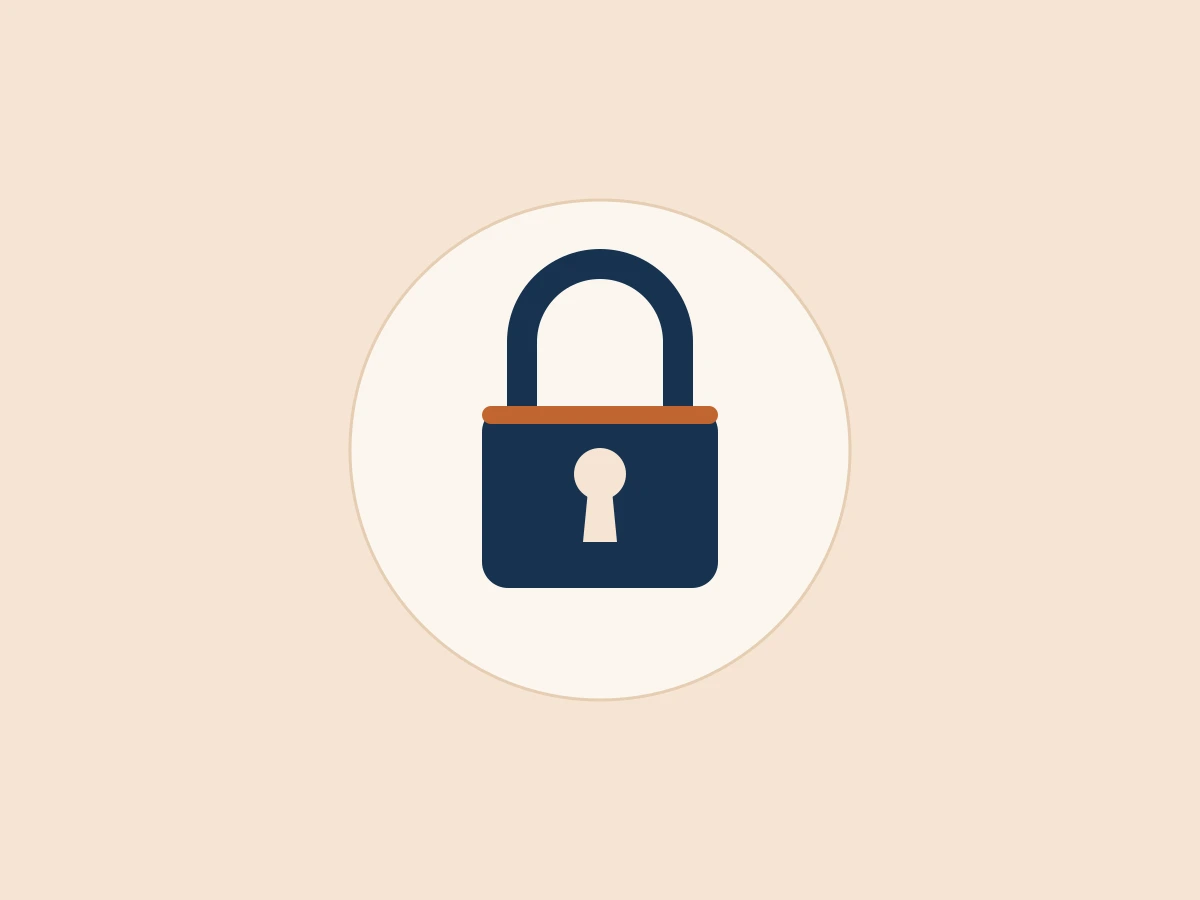
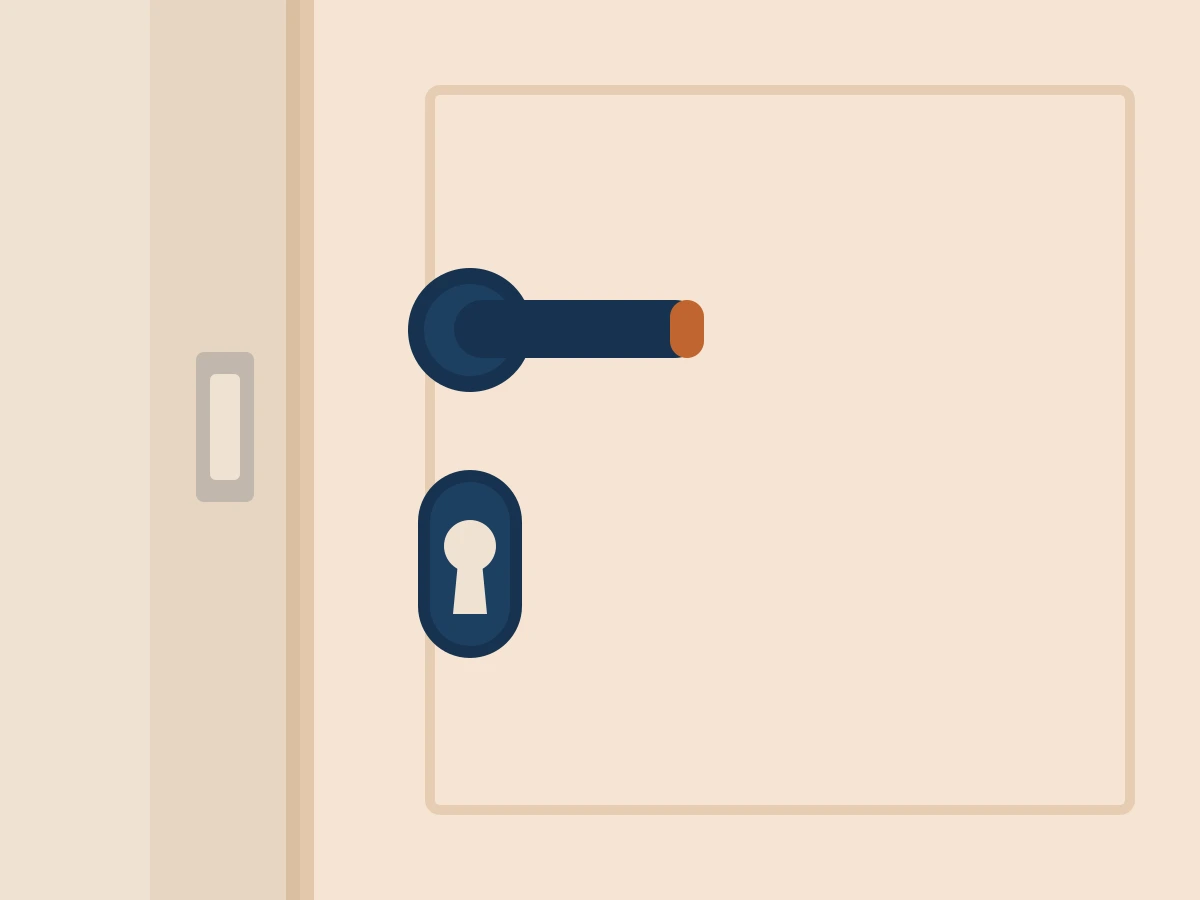
Rehace la página de Servicios y dibuja una cerradura de puerta
Servicios era diez tarjetas idénticas en rejilla, sin jerarquía y con
las fotos a tamaño sello. Es la página a la que más gente llega desde
Google, normalmente buscando un trabajo concreto.

- Índice de los diez servicios bajo la introducción, con enlaces a cada
  ficha. Quien busca "mosquiteras" ya no tiene que recorrerse la página
  entera. En móvil es una fila que se desliza: apilados ocupaban media
  pantalla antes del primer servicio.
- Las fichas pasan al mismo formato editorial de la portada: numeradas,
  con la foto grande y alternando lado. El trabajo se ve de verdad.
- Un solo botón por ficha en vez de dos. Había veinte botones en la
  página compitiendo entre ellos; ahora cada ficha lleva "Pedir
  presupuesto" y, si hay trabajos en la galería, el enlace a verlos.

Cerrajería: la ilustración del candado parecía un icono genérico de
seguridad. Se sustituye por una cerradura de puerta, con su hoja,
manilla, escudo y bocallave, en la paleta de la web. Sigue siendo
provisional hasta que haya una foto real.

Verificado con Chromium en 1280 y 390 px: diez fichas, diez enlaces en
el índice, ningún bloque sin revelar y sin desbordamiento horizontal.

Claude-Session: https://claude.ai/code/session_01GG7RYALtos3g9dqZfuvZ5b

Changed region(s): [[0.1542, 0.0, 0.9558, 1.0]]

diff --git a/app/productos/page.tsx b/app/productos/page.tsx
@@ -18,7 +18,7 @@ const galeriaPorServicio: Record<string, string> = Object.fromEntries(
 export const metadata: Metadata = {
   title: "Cerramientos, toldos y mamparas",
   description:
-    "Cerramientos de terraza, cortinas de vidrio, toldos, persianas, barandillas, mamparas, puertas, mosquiteras y enmarcado en Torrox Costa. Instalación propia.",
+    "Cerramientos de terraza, cortinas de vidrio, toldos, persianas, barandillas, mamparas, puertas, mosquiteras, cerrajería y enmarcado en Torrox Costa. Instalación propia.",
   alternates: { canonical: "/productos" },
 };
 
@@ -27,104 +27,138 @@ export default function ProductosPage() {
     <>
       <Header active="productos" />
 
-      <section className="border-b border-line bg-cream py-11">
+      <section className="border-b border-line bg-cream py-14 sm:py-16">
         <div className="mx-auto max-w-[1180px] px-5 sm:px-8">
           <p className="text-[12px] font-bold uppercase tracking-[0.12em] text-accent">Servicios</p>
-          <h1 className="mt-3 font-display text-[40px] font-bold leading-[1.03] tracking-[-0.015em] text-ink sm:text-[56px]">
+          <h1 className="mt-3 max-w-[16ch] font-display text-[40px] font-bold leading-[1.03] tracking-[-0.015em] text-ink sm:text-[56px]">
             Todo lo que hacemos en aluminio, PVC y cristal
           </h1>
-          <p className="mt-2 max-w-[60ch] text-[15.5px] leading-relaxed text-muted">
+          <p className="mt-4 max-w-[60ch] text-[15.5px] leading-relaxed text-muted">
             Instalación propia de principio a fin, fabricando a medida en nuestro taller lo que
             podemos. Pide presupuesto para cualquiera de estos trabajos y te respondemos rápido.
           </p>
+
+          {/* Índice. La mayoría llega aquí desde Google buscando una cosa
+              concreta: sin esto tiene que recorrerse las diez fichas para
+              encontrarla. */}
+          <nav aria-label="Índice de servicios" className="mt-8">
+            {/* En móvil, una sola fila que se desliza: apilados ocupaban media
+                pantalla antes de llegar al primer servicio. De sm en adelante
+                caben en dos líneas y se ven todos de golpe. */}
+            <ul className="-mx-5 flex gap-2 overflow-x-auto px-5 pb-1 sm:mx-0 sm:flex-wrap sm:overflow-visible sm:px-0">
+              {services.map((s) => (
+                <li key={s.slug} className="flex-none">
+                  <a
+                    href={`#${s.slug}`}
+                    className="inline-flex whitespace-nowrap rounded-full border border-line bg-white px-4 py-2 text-[13.5px] font-semibold text-ink transition hover:border-accent hover:text-accent"
+                  >
+                    {s.title}
+                  </a>
+                </li>
+              ))}
+            </ul>
+          </nav>
         </div>
       </section>
 
-      <section className="py-[52px]">
-        <div className="mx-auto max-w-[1180px] px-5 sm:px-8">
-          <div className="grid grid-cols-1 gap-5 sm:grid-cols-2 lg:grid-cols-3">
-            {services.map((s, i) => (
-              // El retardo va por columna, no por posición absoluta: con diez
-              // tarjetas, escalonarlas todas haría esperar demasiado a la última.
-              <Reveal key={s.slug} delay={(i % 3) * 80} className="h-full">
-              <div
+      {/* El catálogo deja de ser diez tarjetas iguales en rejilla y pasa a
+          fichas numeradas con la foto grande, alternando lado. Mismo criterio
+          que en la portada, y cada trabajo se ve de verdad. */}
+      <section className="py-[72px]">
+        <div className="mx-auto grid max-w-[1180px] gap-16 px-5 sm:gap-20 sm:px-8">
+          {services.map((s, i) => (
+            <Reveal key={s.slug}>
+              <article
                 id={s.slug}
-                className="flex h-full scroll-mt-24 flex-col overflow-hidden rounded-md border border-line bg-white"
+                className="grid scroll-mt-28 grid-cols-1 items-center gap-7 md:grid-cols-2 md:gap-12"
               >
-                <PhotoSlot
-                  label={s.photoLabel}
-                  src={s.photoUrl}
-                  objectPosition={s.photoPosition}
-                  className="aspect-[4/3]"
-                />
-                <div className="flex flex-1 flex-col p-5">
-                  <p className="text-[11px] font-bold uppercase tracking-[0.08em] text-accent">
-                    {s.tag}
-                  </p>
-                  <h3 className="mt-0.5 font-display text-[20px] text-ink">{s.title}</h3>
-                  <p className="mb-2.5 mt-1 text-[13.5px] leading-[1.5] text-muted">
+                <div className={i % 2 === 1 ? "md:order-2" : undefined}>
+                  <PhotoSlot
+                    label={s.photoLabel}
+                    src={s.photoUrl}
+                    objectPosition={s.photoPosition}
+                    sizes="(min-width: 768px) 50vw, 100vw"
+                    className="aspect-[4/3] rounded-[20px]"
+                  />
+                </div>
+                <div className={i % 2 === 1 ? "md:order-1" : undefined}>
+                  <div className="flex items-center gap-3">
+                    <span className="rounded-md bg-ink px-2.5 py-1 font-display text-[13px] font-bold tabular-nums text-white">
+                      {String(i + 1).padStart(2, "0")}
+                    </span>
+                    <span className="text-[11px] font-bold uppercase tracking-[0.12em] text-accent">
+                      {s.tag}
+                    </span>
+                  </div>
+                  <h2 className="mt-4 font-display text-[30px] font-bold leading-[1.05] tracking-[-0.015em] text-ink sm:text-[38px]">
+                    {s.title}
+                  </h2>
+                  <p className="mt-3 max-w-[46ch] text-[15.5px] leading-relaxed text-muted">
                     {s.description}
                   </p>
-                  <ul className="mb-3.5 grid gap-1.5 text-[13px] leading-[1.6] text-muted">
+                  <ul className="mt-4 grid gap-2">
                     {s.bullets.map((b) => (
-                      <li key={b}>· {b}</li>
+                      <li key={b} className="flex gap-2.5 text-[14.5px] text-muted">
+                        <span
+                          aria-hidden
+                          className="mt-[7px] h-1.5 w-1.5 flex-none rounded-full bg-accent"
+                        />
+                        {b}
+                      </li>
                     ))}
                   </ul>
-                  {galeriaPorServicio[s.slug] && (
-                    <Link
-                      href={`/galeria#${galeriaPorServicio[s.slug]}`}
-                      className="mb-3.5 text-[13px] font-bold text-accent hover:text-accent-dark"
-                    >
-                      Ver trabajos hechos →
-                    </Link>
-                  )}
-                  <div className="mt-auto flex flex-wrap gap-2.5">
+                  {/* Un solo botón por ficha: antes había dos en cada una, o
+                      sea veinte en la página, y competían entre ellos. */}
+                  <div className="mt-6 flex flex-wrap items-center gap-x-6 gap-y-3">
                     <a
                       href={`tel:${business.phone}`}
-                      className="rounded-md bg-accent px-4 py-2.5 text-[13px] font-bold text-white hover:bg-accent-dark"
+                      className="inline-flex rounded-md bg-accent px-6 py-3.5 text-[14.5px] font-bold text-white transition hover:bg-accent-dark"
                     >
-                      Llamar
+                      Pedir presupuesto
                     </a>
-                    <Link
-                      href="/contacto"
-                      className="rounded-md border-[1.5px] border-line px-4 py-2.5 text-[13px] font-bold text-ink hover:bg-cream"
-                    >
-                      Correo
-                    </Link>
+                    {galeriaPorServicio[s.slug] && (
+                      <Link
+                        href={`/galeria#${galeriaPorServicio[s.slug]}`}
+                        className="text-[14px] font-bold text-accent transition hover:text-accent-dark"
+                      >
+                        Ver trabajos hechos →
+                      </Link>
+                    )}
                   </div>
                 </div>
-              </div>
-              </Reveal>
-            ))}
-          </div>
+              </article>
+            </Reveal>
+          ))}
         </div>
       </section>
 
-      <div className="mx-auto max-w-[1132px] px-5 pb-[52px] sm:px-8">
-        <div className="flex flex-wrap items-center justify-between gap-6 rounded-[20px] bg-tan p-8 sm:p-11">
-          <div>
-            <h2 className="font-display text-[28px] font-bold leading-[1.05] tracking-[-0.01em] text-ink sm:text-[34px]">
-              ¿No ves tu trabajo en la lista?
-            </h2>
-            <p className="mt-1.5 text-[14px] text-muted">
-              Seguro que también lo hacemos. Cuéntanos qué necesitas.
-            </p>
+      <div className="mx-auto max-w-[1132px] px-5 pb-[72px] sm:px-8">
+        <Reveal>
+          <div className="flex flex-wrap items-center justify-between gap-6 rounded-[20px] bg-tan p-8 sm:p-11">
+            <div>
+              <h2 className="font-display text-[28px] font-bold leading-[1.05] tracking-[-0.01em] text-ink sm:text-[34px]">
+                ¿No ves tu trabajo en la lista?
+              </h2>
+              <p className="mt-1.5 text-[14px] text-muted">
+                Seguro que también lo hacemos. Cuéntanos qué necesitas.
+              </p>
+            </div>
+            <div className="flex flex-wrap gap-3">
+              <a
+                href={`tel:${business.phone}`}
+                className="rounded-md bg-accent px-6 py-3.5 text-[14.5px] font-bold text-white transition hover:bg-accent-dark"
+              >
+                Llamar
+              </a>
+              <Link
+                href="/contacto"
+                className="rounded-md border-[1.5px] border-line bg-white px-6 py-3.5 text-[14.5px] font-bold text-ink transition hover:bg-cream"
+              >
+                Formulario
+              </Link>
+            </div>
           </div>
-          <div className="flex flex-wrap gap-3">
-            <a
-              href={`tel:${business.phone}`}
-              className="rounded-md bg-accent px-6 py-3.5 text-[14.5px] font-bold text-white hover:bg-accent-dark"
-            >
-              Llamar
-            </a>
-            <Link
-              href="/contacto"
-              className="rounded-md border-[1.5px] border-line bg-white px-6 py-3.5 text-[14.5px] font-bold text-ink hover:bg-cream"
-            >
-              Formulario
-            </Link>
-          </div>
-        </div>
+        </Reveal>
       </div>
 
       <Footer />
